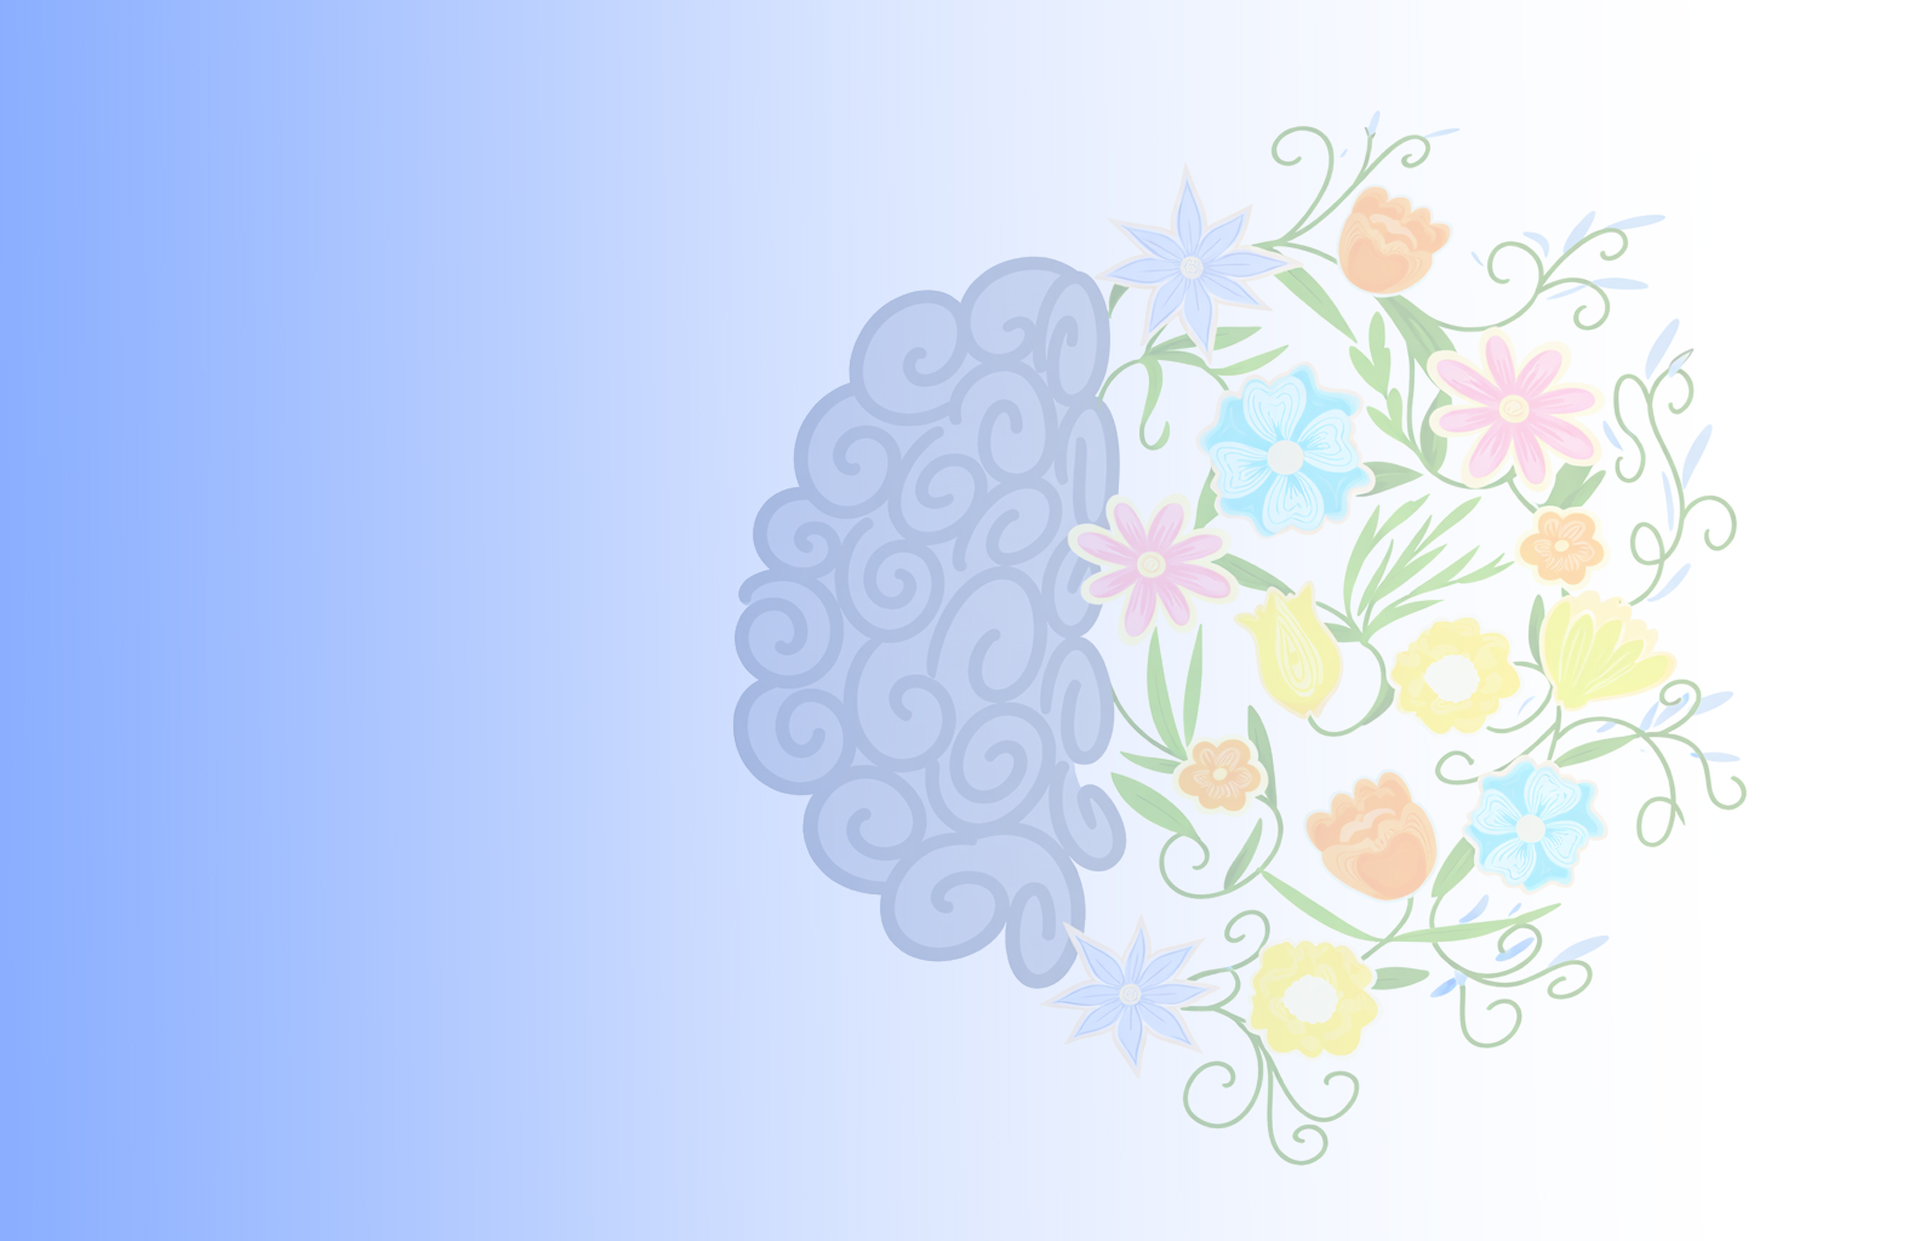
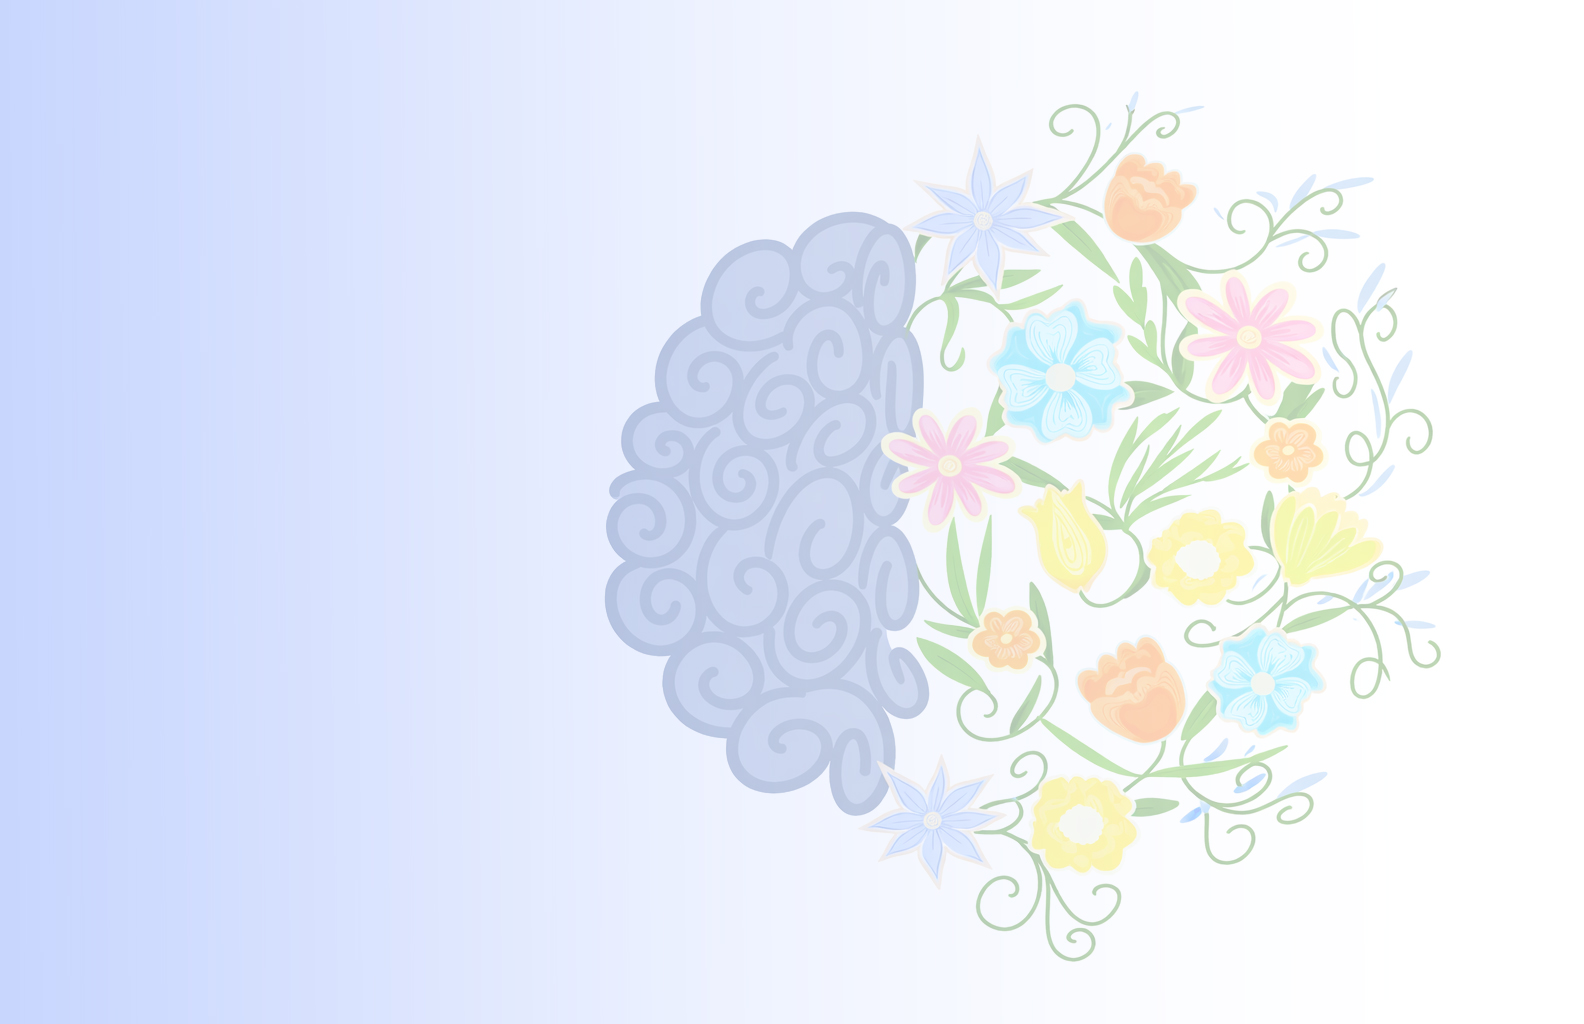
style: restore parallax effect and add footer gradient

diff --git a/src/styles.scss b/src/styles.scss
@@ -75,7 +75,7 @@ p, .lead {
 
 .offcanvas-lg.show:not(.hiding), .offcanvas-lg.showing {
   transform: translateX(0) !important;
-  background-color: #83a2dd;
+  background-color: rgb(103 99 133);
 }
 
 
@@ -181,7 +181,7 @@ p, .lead {
 
 .btn-gradient-outline {
   background: transparent;
-  color: #FFF !important;
+  color: $dark-blue !important;
   border: 2px solid $primary-blue;
   border-radius: 6px;
   padding: 12px 30px;
@@ -347,7 +347,7 @@ p, .lead {
   display: flex;
   align-items: center;
   background-position: center 40%;
-  background-attachment: scroll;
+  background-attachment: fixed;
   z-index: 10;
 
   .hero-overlay-div {
@@ -400,7 +400,7 @@ p, .lead {
       font-size: 3.5rem;
       font-weight: 800;
       color: $dark-blue-home;
-      text-shadow: 0 0 40px white;
+      text-shadow: 0 0 10px #a6c0fa;
     }
 
   .hero-subtitle {
@@ -454,7 +454,7 @@ p, .lead {
   background-image: url('/assets/images/services-bg.png');
   background-size: cover;
   background-position: center;
-  background-attachment: scroll;
+  background-attachment: fixed;
   opacity: 1;
   z-index: -1;
   transform: rotate(90deg) scale(2); // Scale up to ensure coverage when rotated
@@ -465,7 +465,7 @@ p, .lead {
   min-height: 350px;
   height: auto;
   border-radius: 0;
-  background: linear-gradient(135deg, #c8d6fe 0%, #cadbe9 100%);
+  background: linear-gradient(135deg, #c8d6fe 0%, #c8d6fe  100%);
   color: white;
   padding: 60px 40px;
   display: flex;
@@ -574,7 +574,7 @@ p, .lead {
 }
 
 .footer-top {
-  background-color: $footer-blue;
+  background: linear-gradient(180deg, #c8d6fe 0%, #666489 100%);
   color: white;
   padding: 60px 0;
 
@@ -590,7 +590,7 @@ p, .lead {
 }
 
 .footer-bottom {
-  background-color: $footer-dark;
+  background-color: #666489;
   color: rgba(255, 255, 255, 0.7);
   padding: 20px 0;
   font-size: 0.8rem;

diff --git a/src/app/app.html b/src/app/app.html
@@ -12,7 +12,7 @@
     <!-- Navigation (Desktop & Mobile Offcanvas) -->
     <div class="offcanvas-lg offcanvas-end" data-bs-backdrop="false" tabindex="-1" id="offcanvasNavbar" aria-labelledby="offcanvasNavbarLabel">
       <button type="button" class="btn-close btn-close-custom d-lg-none" data-bs-dismiss="offcanvas" data-bs-target="#offcanvasNavbar" aria-label="Close"></button>
-      <div class="offcanvas-body p-0 p-lg-0" style="background-color:#a9c3e8;">
+      <div class="offcanvas-body p-0 p-lg-0" style="background-color:#c8d6fe;">
         <ul class="navbar-nav mb-2 mb-lg-0">
           <li class="nav-item">
             <a class="nav-link px-3" routerLink="/about" routerLinkActive="active" data-bs-dismiss="offcanvas" data-bs-target="#offcanvasNavbar">ABOUT</a>

diff --git a/src/app/about/about.scss b/src/app/about/about.scss
@@ -2,10 +2,10 @@
 
 .about-hero {
   background: linear-gradient(rgba(255, 255, 255, 0.5), rgba(255, 255, 255, 0.5)), url('/assets/images/about-hero.png');
-  background-size: 70%;
-  background-position: 100% 30%;
+  background-size: 100%;
+  background-position: 100% -40%;
   background-repeat: no-repeat;
-  background-attachment: scroll;
+  background-attachment: fixed;
 
   @media (max-width: 1600px) {
   background-position: center 30%;
@@ -16,11 +16,11 @@
   @media (max-width: 1440px) {
     background-position: center 40%;
     background-attachment: scroll;
-    background-size: 110%;
+    background-size: 130%;
   }
 
   @media (max-width: 768px) {
-    background-size: 130%;
+    background-size: 195%;
   }
 }
 

diff --git a/src/app/fees-insurance/fees-insurance.scss b/src/app/fees-insurance/fees-insurance.scss
@@ -4,7 +4,7 @@
   background: linear-gradient(rgba(255, 255, 255, 0.7), rgba(255, 255, 255, 0.7)), url('/assets/images/fees-insurance-hero.jpeg');
   background-size: cover;
   background-position: center 40%;
-  background-attachment: scroll;
+  background-attachment: fixed;
   background-repeat: no-repeat;
   
   @media (max-width: 768px) {

diff --git a/src/app/services/evaluations/evaluations.scss b/src/app/services/evaluations/evaluations.scss
@@ -4,7 +4,7 @@
   background: linear-gradient(rgba(255, 255, 255, 0.25), rgba(255, 255, 255, 0.25)), url('/assets/images/Evaluations-hero.jpeg');
   background-size: cover;
   background-position: center 40%;
-  background-attachment: scroll;
+  background-attachment: fixed;
   background-repeat: no-repeat;
   
   @media (max-width: 768px) {

diff --git a/src/app/contact/contact.scss b/src/app/contact/contact.scss
@@ -4,7 +4,7 @@
   background: linear-gradient(rgba(255, 255, 255, 0.7), rgba(255, 255, 255, 0.7)), url('/assets/images/contact-hero.jpeg');
   background-size: cover;
   background-position: center 60%;
-  background-attachment: scroll;
+  background-attachment: fixed;
   background-repeat: no-repeat;
   
   @media (max-width: 768px) {

diff --git a/src/app/services/adult-therapy/adult-therapy.scss b/src/app/services/adult-therapy/adult-therapy.scss
@@ -5,7 +5,7 @@
   background-size: cover;
   background-position: center 40%;
   background-repeat: no-repeat;
-  background-attachment: scroll;
+  background-attachment: fixed;
 
   @media (max-width: 768px) {
     background-position: center 40%;

diff --git a/src/app/services/child-adolescent-therapy/child-adolescent-therapy.scss b/src/app/services/child-adolescent-therapy/child-adolescent-therapy.scss
@@ -5,7 +5,7 @@
   background-size: cover;
   background-position: center 40%;
   background-repeat: no-repeat;
-  background-attachment: scroll;
+  background-attachment: fixed;
 
   @media (max-width: 768px) {
     background-position: center 40%;

diff --git a/src/app/services/services.scss b/src/app/services/services.scss
@@ -5,7 +5,7 @@
   background-size: cover;
   background-position: center 40%;
   background-repeat: no-repeat;
-  background-attachment: scroll;
+  background-attachment: fixed;
 
   @media (max-width: 768px) {
     background-position: center 40%;
